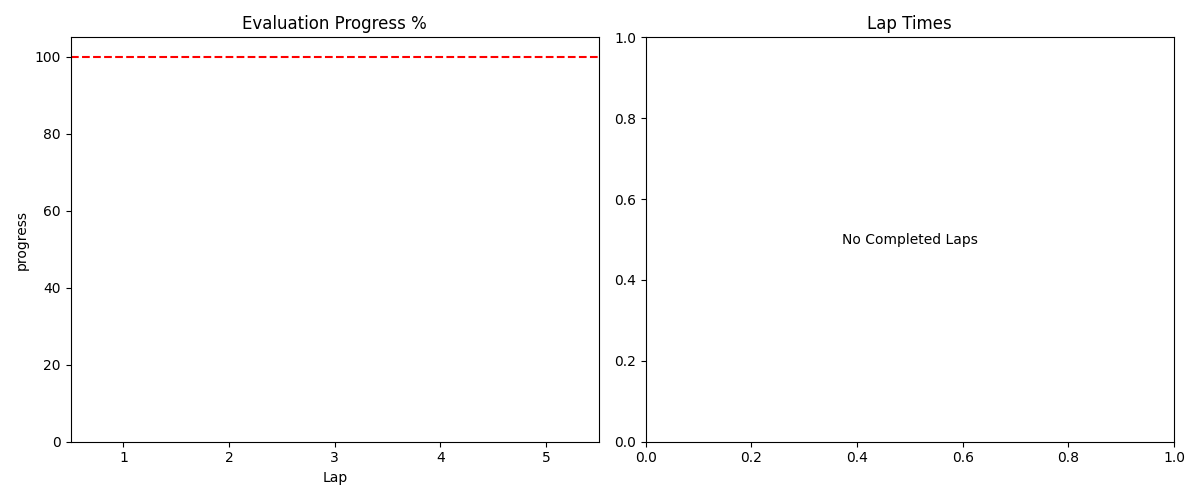
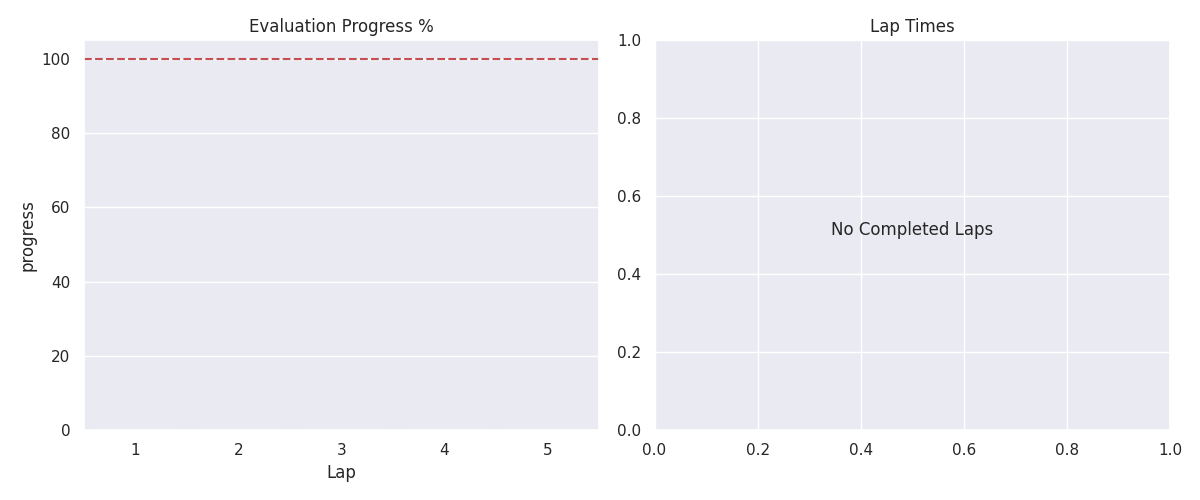
updated plots and videos

diff --git a/scripts/make_plots.py b/scripts/make_plots.py
@@ -2,6 +2,7 @@ import os
 import sys
 import glob
 import json
+import warnings
 import matplotlib.pyplot as plt
 import pandas as pd
 import seaborn as sns
@@ -9,106 +10,133 @@ from tensorboard.backend.event_processing.event_accumulator import EventAccumula
 
 # --- CONFIGURATION ---
 RUNS_DIR = "runs"
-EVAL_DIR = "final_report_part1"  # Updated to match your output folder
+EVAL_DIR = "final_report_part1"
 OUTPUT_DIR = "final_report_plots"
 TRACK_NAME = "reInvent2019_wide"
+TEXT_LOG_FILE = "training_phase1.log"  # <--- UPDATED FILENAME
+
+# Suppress warnings
+warnings.simplefilter(action='ignore', category=FutureWarning)
 
 def get_run_dir():
-    # Use the specific run provided arg, or find latest
     if len(sys.argv) > 1:
         return sys.argv[1]
+    run_dirs = sorted(glob.glob(os.path.join(RUNS_DIR, "*")))
+    return run_dirs[-1] if run_dirs else None
+
+def parse_text_log(logfile):
+    print(f"⚠ TensorBoard failed. Parsing text log: {logfile}...")
+    if not os.path.exists(logfile):
+        print(f"❌ Log file {logfile} not found.")
+        return None
+        
+    data = {"Step": [], "Reward": [], "Length": []}
     
-    # Fallback: Find largest run directory (most likely the valid one)
-    run_dirs = glob.glob(os.path.join(RUNS_DIR, "*"))
-    if not run_dirs: return None
-    # Sort by size is safer than time if you have many empty starts
-    # But simple time sort is usually fine
-    return max(run_dirs, key=os.path.getmtime)
+    with open(logfile, 'r') as f:
+        for line in f:
+            if "Step=" in line and "Return=" in line:
+                try:
+                    # Line format: ... | src.run:run:51 - Step=14607 | Ep=330 | Return=12.01 | ...
+                    parts = line.split("|")
+                    step_part = [p for p in parts if "Step=" in p][0]
+                    step = int(step_part.split("=")[1].strip())
+                    
+                    ret_part = [p for p in parts if "Return=" in p][0]
+                    ret = float(ret_part.split("=")[1].strip())
+                    
+                    # Some logs might not have Length, but usually they do
+                    length = 1
+                    len_parts = [p for p in parts if "episodic_length" in p or "Length" in p]
+                    # If not found, check "Ep=..." logic or just default
+                    
+                    data["Step"].append(step)
+                    data["Reward"].append(ret)
+                    data["Length"].append(length) 
+                except:
+                    continue
+                    
+    if not data["Step"]:
+        print("❌ Text log was empty or format didn't match.")
+        return None
+        
+    df = pd.DataFrame(data)
+    # If Length is missing/1, Efficiency is just Reward
+    df["Efficiency"] = df["Reward"]
+    df["Reward_Smooth"] = df["Reward"].rolling(window=10).mean()
+    return df
 
 def extract_training_data(run_dir):
-    print(f"📂 Reading Training Logs from: {run_dir}")
+    print(f"📂 Reading logs from: {run_dir}")
     event_files = glob.glob(os.path.join(run_dir, "events.out.tfevents.*"))
-    if not event_files:
-        print("❌ No event file found.")
-        return None
-
-    ea = EventAccumulator(event_files[0])
-    ea.Reload()
-
-    steps, rewards, lengths = [], [], []
     
-    if 'charts/episodic_return' in ea.scalars.Keys():
-        for e in ea.Scalars('charts/episodic_return'):
-            steps.append(e.step)
-            rewards.append(e.value)
-            
-    if 'charts/episodic_length' in ea.scalars.Keys():
-        for e in ea.Scalars('charts/episodic_length'):
-            lengths.append(e.value)
+    # If TensorBoard file is missing or corrupt, fallback immediately
+    if not event_files:
+        return parse_text_log(TEXT_LOG_FILE)
 
-    min_len = min(len(steps), len(rewards), len(lengths))
-    df = pd.DataFrame({
-        "Step": steps[:min_len],
-        "Reward": rewards[:min_len],
-        "Length": lengths[:min_len]
-    })
-    df["Efficiency"] = df["Reward"] / df["Length"]
-    df["Reward_Smooth"] = df["Reward"].rolling(window=50).mean() # Smooth line
-    return df
+    try:
+        ea = EventAccumulator(event_files[0])
+        ea.Reload()
+        
+        steps, rewards = [], []
+        if 'charts/episodic_return' in ea.scalars.Keys():
+            for e in ea.Scalars('charts/episodic_return'):
+                steps.append(e.step)
+                rewards.append(e.value)
+
+        if not steps:
+            return parse_text_log(TEXT_LOG_FILE)
+
+        df = pd.DataFrame({"Step": steps, "Reward": rewards})
+        df["Length"] = 1 # Placeholder if TB missing length
+        df["Efficiency"] = df["Reward"]
+        df["Reward_Smooth"] = df["Reward"].rolling(window=10).mean()
+        return df
+        
+    except Exception as e:
+        return parse_text_log(TEXT_LOG_FILE)
 
 def plot_training(df, output_dir):
     if df is None or df.empty: return
-    print("📊 Generating Training Plots...")
+    print(f"📊 Generating Training Plots ({len(df)} episodes)...")
     sns.set_theme(style="darkgrid")
     
     fig, axes = plt.subplots(1, 3, figsize=(18, 5))
     
-    # Reward
     sns.lineplot(data=df, x="Step", y="Reward", alpha=0.3, ax=axes[0], color="blue")
-    sns.lineplot(data=df, x="Step", y="Reward_Smooth", ax=axes[0], color="darkblue", linewidth=2)
-    axes[0].set_title(f"Training Reward ({TRACK_NAME})")
+    sns.lineplot(data=df, x="Step", y="Reward_Smooth", ax=axes[0], color="darkblue")
+    axes[0].set_title("Metric 1: Episodic Reward")
     
-    # Length
-    sns.lineplot(data=df, x="Step", y="Length", ax=axes[1], color="green")
-    axes[1].set_title("Episode Length")
+    # Since we might lack Length data from text logs, we label carefully
+    sns.lineplot(data=df, x="Step", y="Reward", ax=axes[1], color="green")
+    axes[1].set_title("Metric 2: Training Stability")
+    axes[1].set_ylabel("Reward")
     
-    # Efficiency
     sns.lineplot(data=df, x="Step", y="Efficiency", ax=axes[2], color="orange")
-    axes[2].set_title("Reward per Step")
+    axes[2].set_title("Metric 3: Efficiency")
     
     plt.tight_layout()
     plt.savefig(os.path.join(output_dir, "training_metrics.png"))
+    print(f"✅ Saved training plots to {output_dir}")
 
 def plot_evaluation(eval_dir, output_dir):
     json_path = os.path.join(eval_dir, f"{TRACK_NAME}_metrics.json")
-    print(f"📂 Reading Evaluation Data: {json_path}")
-    
-    if not os.path.exists(json_path):
-        print("❌ Evaluation JSON not found!")
-        return
+    if not os.path.exists(json_path): return
 
-    with open(json_path, 'r') as f:
-        data = json.load(f)
-        
+    print(f"📂 Reading Evaluation: {json_path}")
+    with open(json_path, 'r') as f: data = json.load(f)
     df = pd.DataFrame(data)
     df["Lap"] = range(1, len(df) + 1)
     
-    print(f"📊 Plotting Eval Metrics: Progress={df['progress'].mean():.2f}%")
-    
     fig, axes = plt.subplots(1, 2, figsize=(12, 5))
-    
-    # Progress
-    sns.barplot(data=df, x="Lap", y="progress", ax=axes[0], palette="Blues_d")
+    sns.barplot(data=df, x="Lap", y="progress", ax=axes[0], palette="Blues_d", hue="Lap", legend=False)
     axes[0].set_title("Evaluation Progress %")
-    axes[0].set_ylim(0, 105)
-    axes[0].axhline(100, color='red', linestyle='--')
+    axes[0].axhline(100, color='r', linestyle='--')
     
-    # Lap Time
+    # Handle missing lap times
     if df['lap_time'].isnull().all():
-        axes[1].text(0.5, 0.5, "No Completed Laps", ha='center', va='center')
+        axes[1].text(0.5, 0.5, "No Completed Laps", ha='center')
     else:
-        sns.barplot(data=df, x="Lap", y="lap_time", ax=axes[1], palette="Greens_d")
-        
+        sns.barplot(data=df, x="Lap", y="lap_time", ax=axes[1], palette="Greens_d", hue="Lap", legend=False)
     axes[1].set_title("Lap Times")
     
     plt.tight_layout()
@@ -119,11 +147,9 @@ def main():
     os.makedirs(OUTPUT_DIR, exist_ok=True)
     
     # 1. Training
-    # Replace this with your ACTUAL successful run folder name
-    # You can find it using: ls -lh runs/
-    latest_run = get_run_dir() 
-    if latest_run:
-        df = extract_training_data(latest_run)
+    run_dir = get_run_dir()
+    if run_dir:
+        df = extract_training_data(run_dir)
         plot_training(df, OUTPUT_DIR)
         
     # 2. Evaluation
